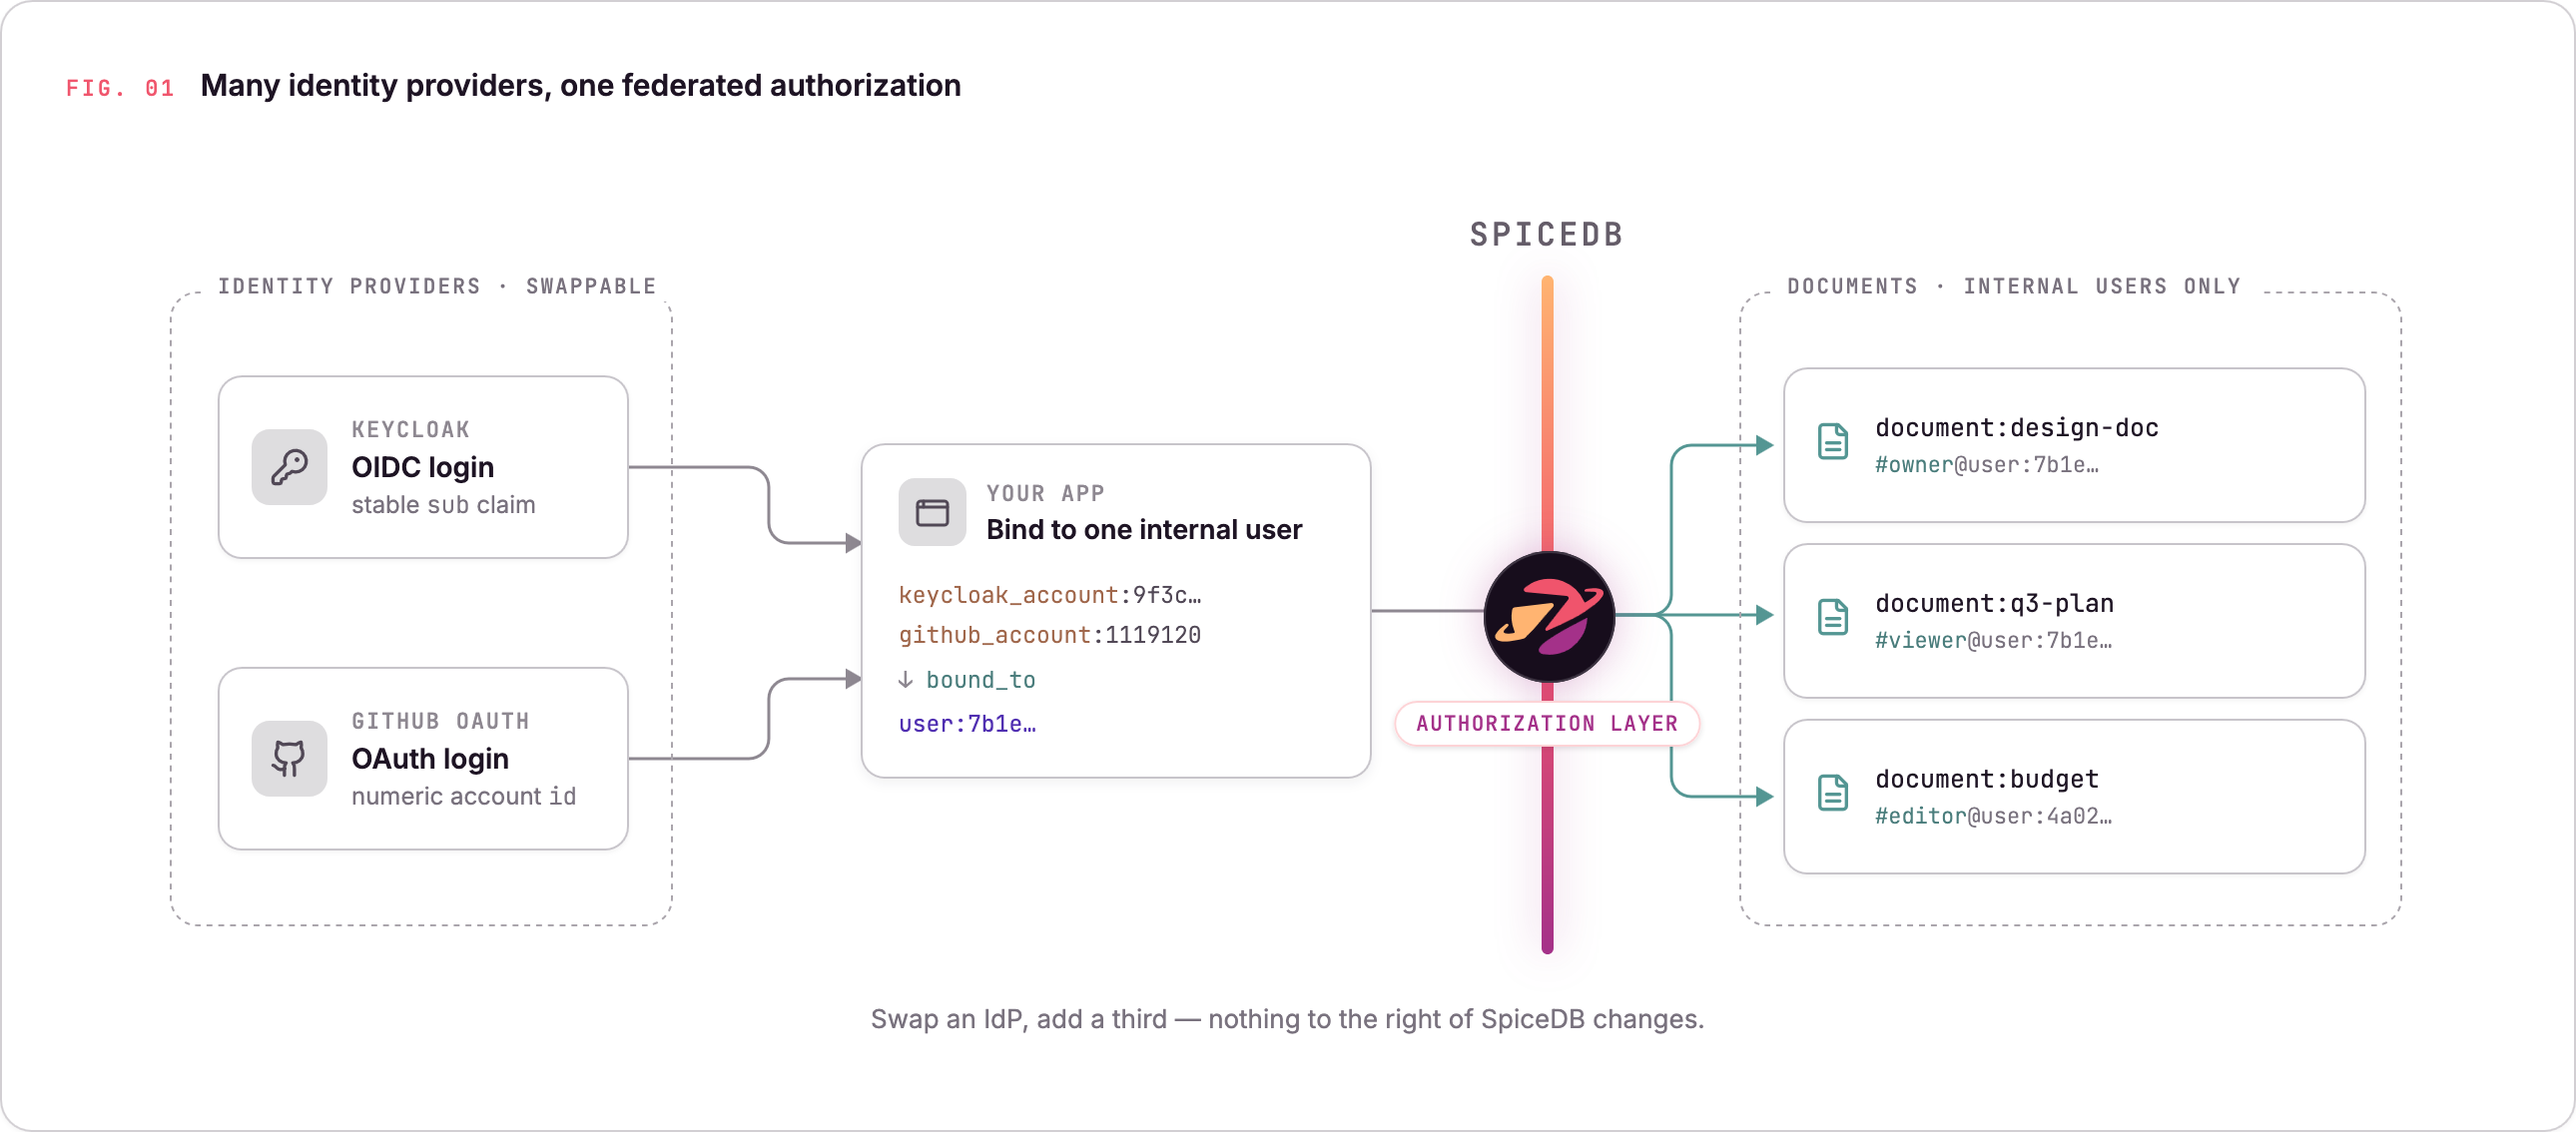
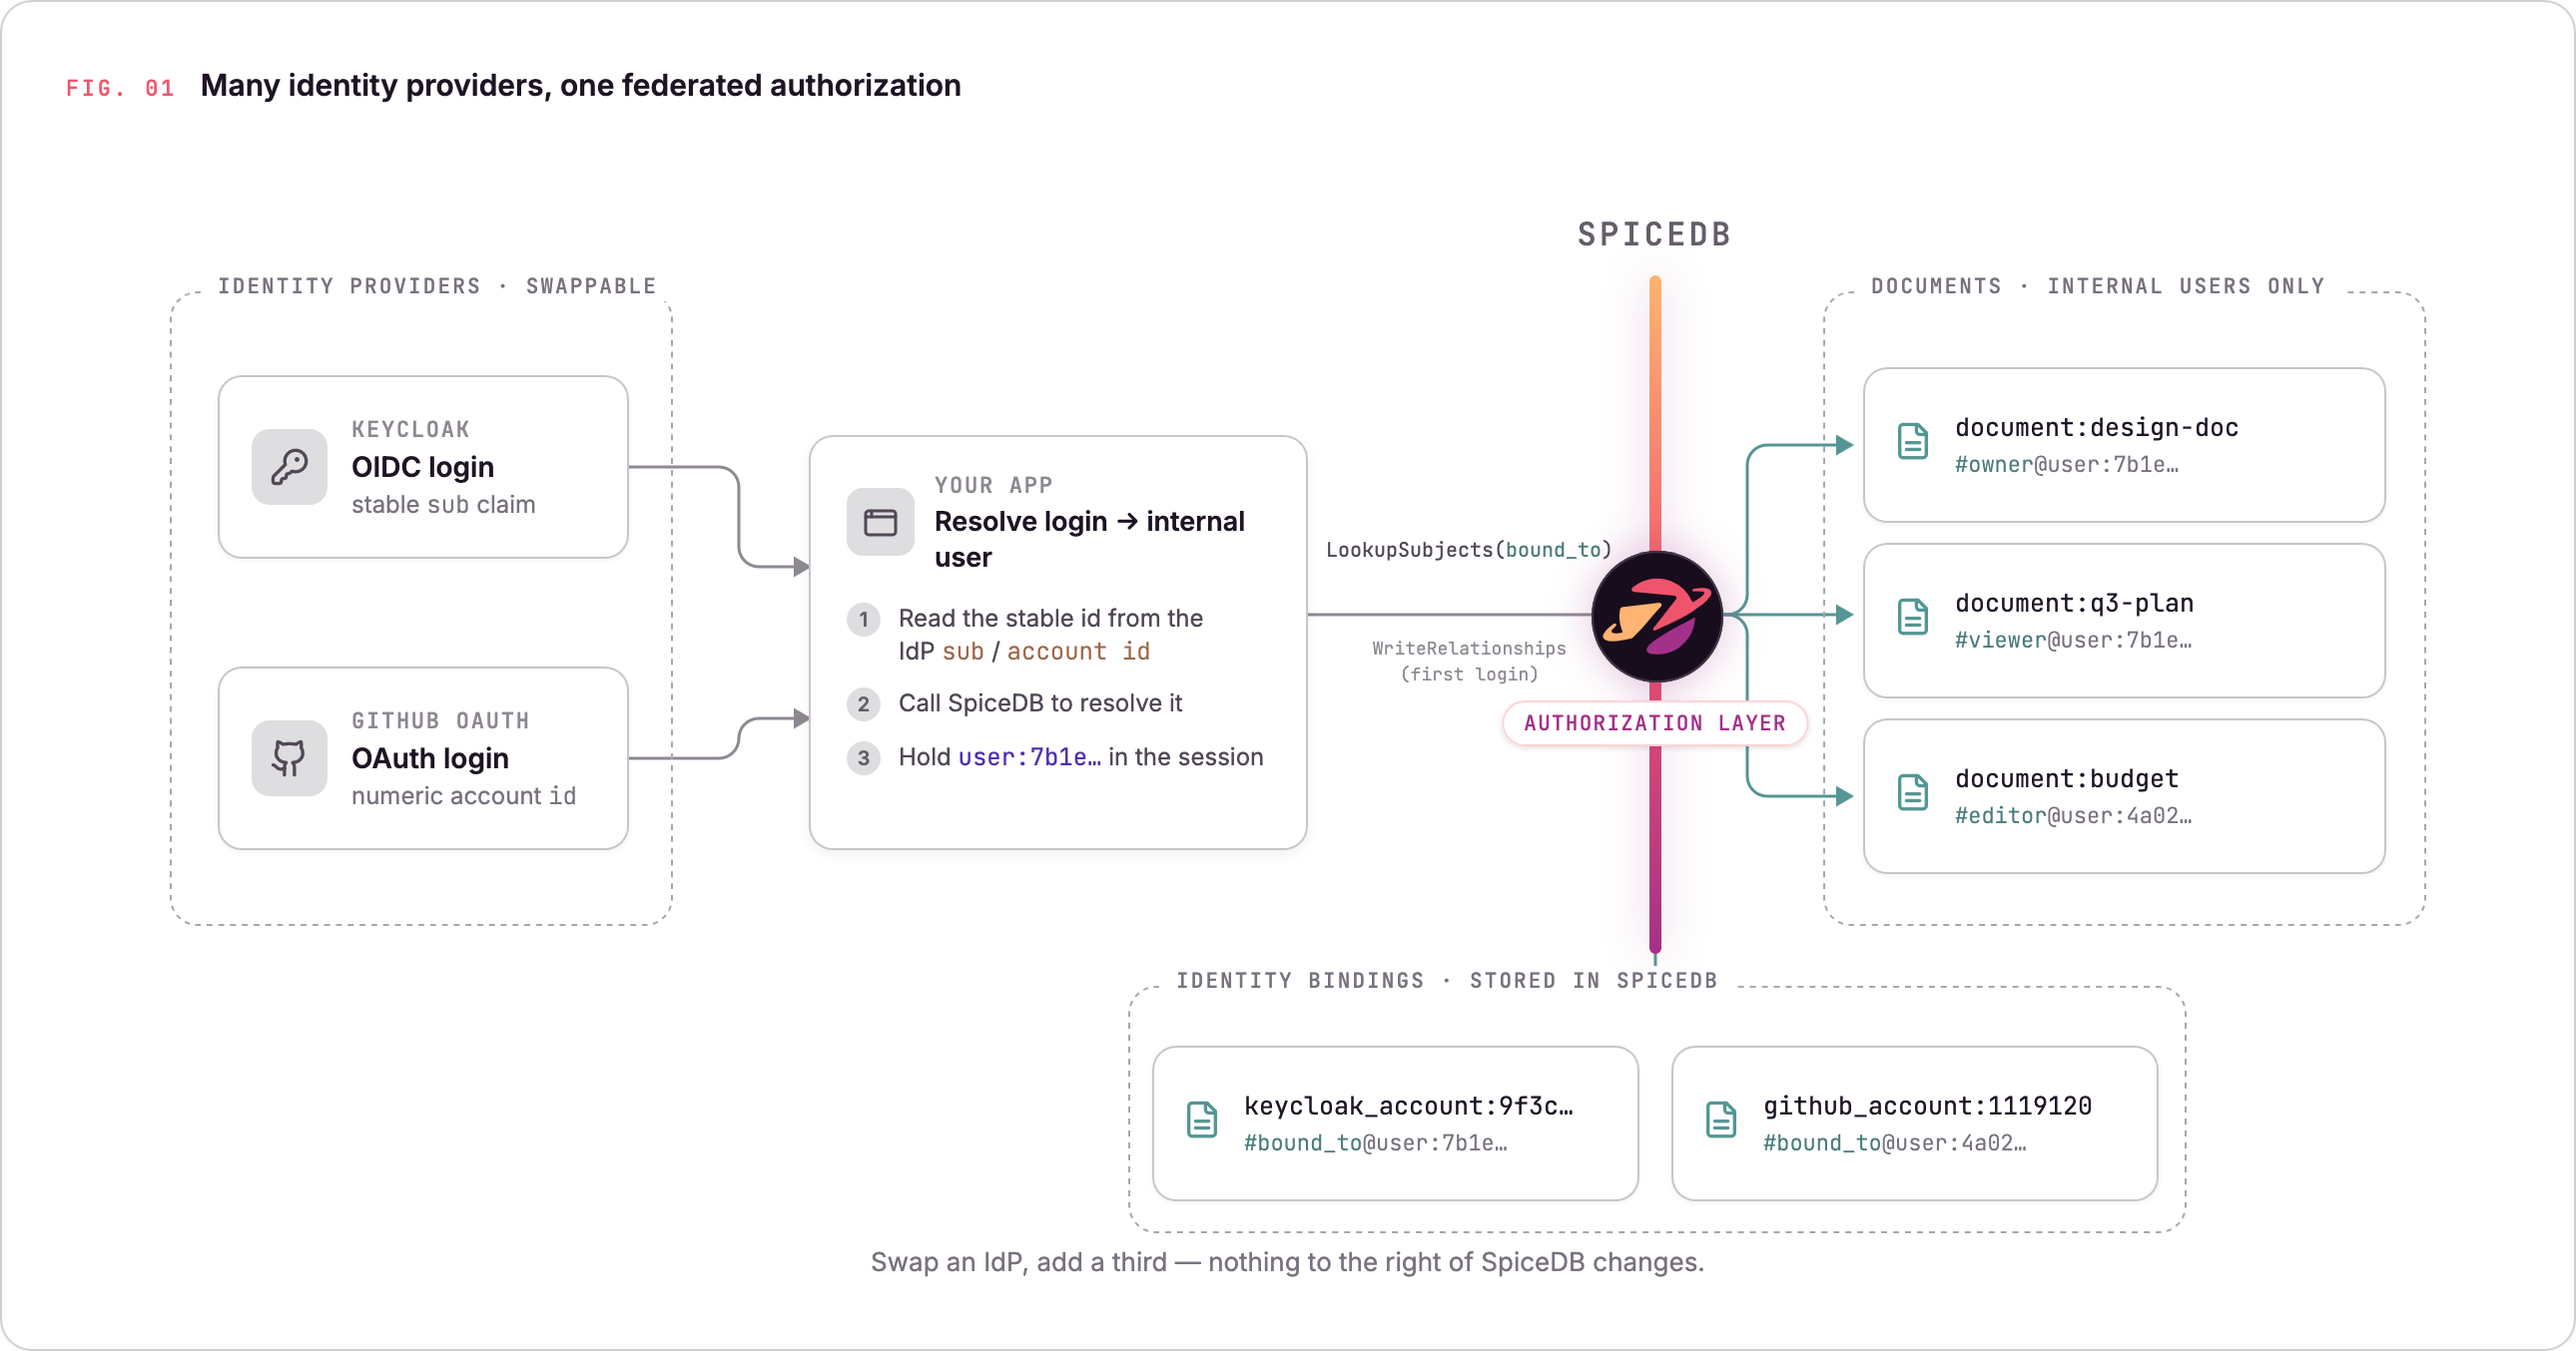
Update federated-authorization architecture diagram
Replace the diagram with the corrected version (identity bindings shown stored in SpiceDB, resolved via a LookupSubjects bound_to call) and update the image alt text to match.

diff --git a/federated-authorization/README.md b/federated-authorization/README.md
@@ -8,7 +8,7 @@ Different organizations use different identity providers, but a single SpiceDB i
 
 ## Architecture
 
-![Many identity providers, one federated authorization: external accounts from swappable IdPs each bind to one internal user, and SpiceDB governs document access for internal users only](architecture.png)
+![Many identity providers, one federated authorization: the app resolves each login from a swappable IdP to an internal user via a bound_to lookup in SpiceDB, which stores the identity bindings and governs document access for internal users only](architecture.png)
 
 ```
 ┌─────────────────────────────────────────────────────────────┐
